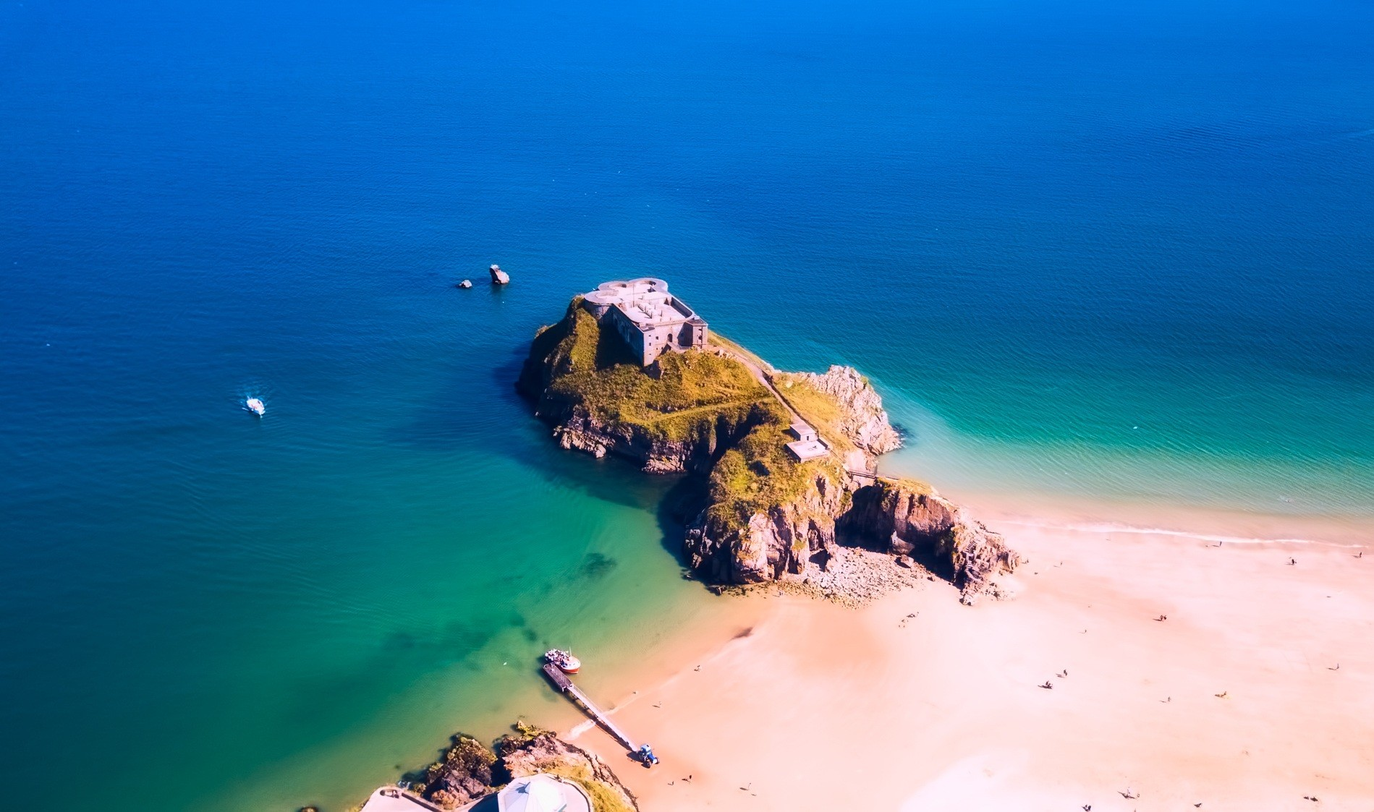
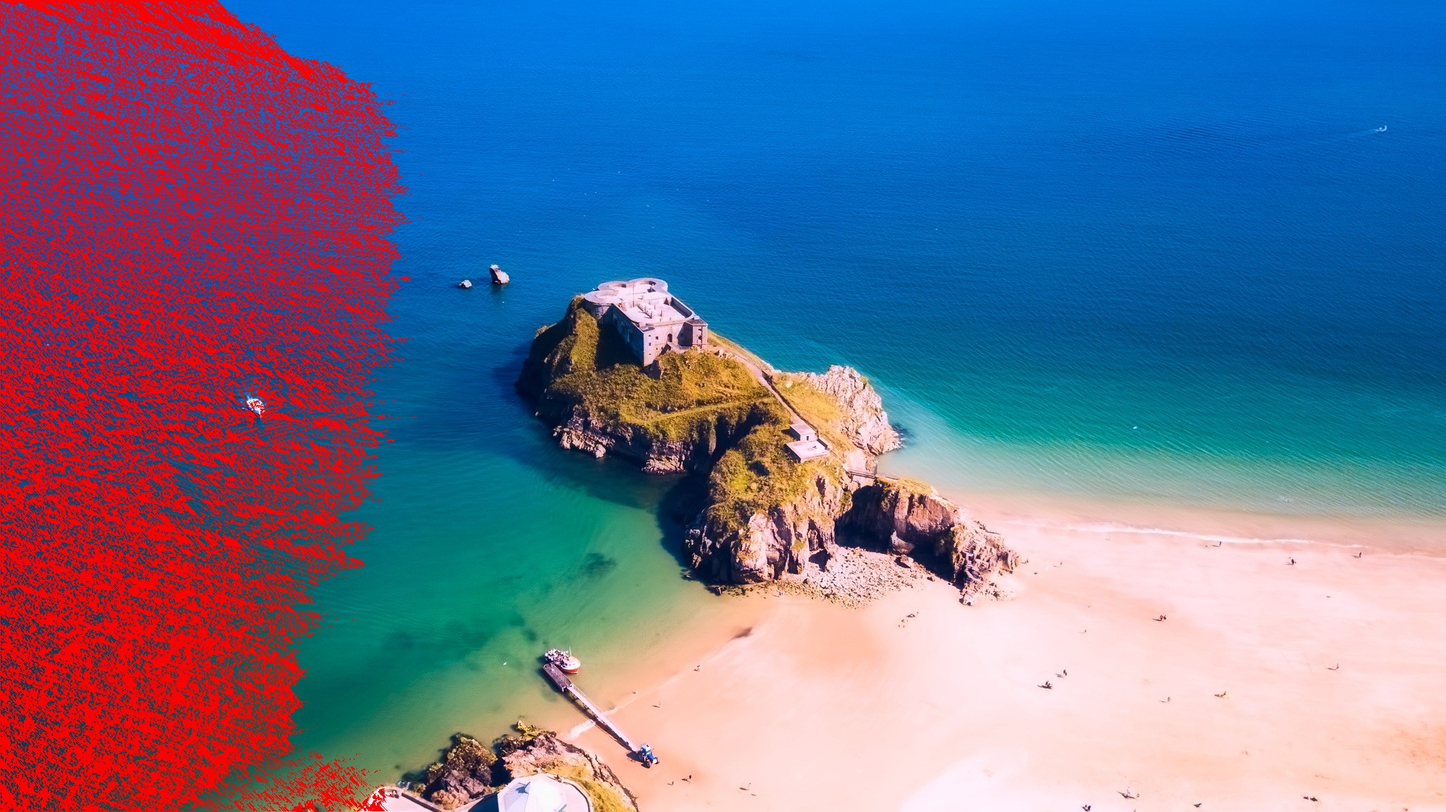
Added colorSeams (Half Works currently fixing)

diff --git a/libs/filter.cpp b/libs/filter.cpp
@@ -1,5 +1,7 @@
 #include <cmath>
 #include <vector>
+#include <set>
+#include <limits>
 #include <iostream>
 
 #include <Filter.h>
@@ -176,57 +178,74 @@ namespace StronkImage
         }
     }
 
-    // Bad initialization
-    // void Filter::removeSeams(ImageData &sourceImage, ImageData &energyMap, int numSeams)
-    // {
-    //     for (int seamCount = 0; seamCount < numSeams; ++seamCount)
-    //     {
-    //         // Find the minimum cost seam in the energy map
-    //         std::vector<int> seam(sourceImage.getHeight());
+    void Filter::colorSeams(ImageData &sourceImage, ImageData &energyMap, int numSeams)
+    {
+        for (int seamCount = 0; seamCount < numSeams; ++seamCount)
+        {
+            std::vector<int> seam(sourceImage.getHeight());
 
-    //         // Initialize the first row of the seam with the first row of the energy map
-    //         for (unsigned int y = 0; y < sourceImage.getHeight(); ++y)
-    //         {
-    //             seam[y] = y * sourceImage.getWidth();
-    //             for (unsigned int x = 1; x < sourceImage.getWidth(); ++x)
-    //             {
-    //                 int currentIdx = y * sourceImage.getWidth() + x;
-    //                 int currentEnergy = energyMap.getPixel(x, y).red;
+            for (unsigned int y = 0; y < sourceImage.getHeight(); ++y)
+            {
+                int minIdx = -1;
+                int minEnergy = std::numeric_limits<int>::max();
 
-    //                 if (y == 0)
-    //                 {
-    //                     seam[y] = currentIdx;
-    //                 }
-    //                 else
-    //                 {
-    //                     int minIdx = seam[y - 1] - sourceImage.getWidth();
+                for (unsigned int x = 0; x < sourceImage.getWidth(); ++x)
+                {
+                    if (y == 0)
+                    {
+                        int currentEnergy = energyMap.getPixel(x, y).red;
+                        if (currentEnergy < minEnergy)
+                        {
+                            minEnergy = currentEnergy;
+                            minIdx = x;
+                        }
+                    }
+                    else
+                    {
+                        int currentIdx = seam[y - 1] + (x - seam[y - 1] % sourceImage.getWidth());
+                        int currentEnergy = energyMap.getPixel(currentIdx % sourceImage.getWidth(), y).red;
 
-    //                     if (x > 0 && seam[y - 1] - sourceImage.getWidth() + 1 < energyMap.getPixel(x - 1, y - 1).red)
-    //                     {
-    //                         minIdx = seam[y - 1] - sourceImage.getWidth() + 1;
-    //                     }
+                        if (x > 0)
+                        {
+                            int leftEnergy = energyMap.getPixel(x - 1, y - 1).red;
+                            if (leftEnergy < currentEnergy)
+                            {
+                                currentEnergy = leftEnergy;
+                                currentIdx = seam[y - 1] - 1;
+                            }
+                        }
 
-    //                     if (x < sourceImage.getWidth() - 1 && seam[y - 1] - sourceImage.getWidth() - 1 < energyMap.getPixel(x + 1, y - 1).red)
-    //                     {
-    //                         minIdx = seam[y - 1] - sourceImage.getWidth() - 1;
-    //                     }
+                        if (x < sourceImage.getWidth() - 1)
+                        {
+                            int rightEnergy = energyMap.getPixel(x + 1, y - 1).red;
+                            if (rightEnergy < currentEnergy)
+                            {
+                                currentEnergy = rightEnergy;
+                                currentIdx = seam[y - 1] + 1;
+                            }
+                        }
 
-    //                     seam[y] = minIdx + sourceImage.getWidth();
-    //                 }
-    //             }
-    //         }
+                        if (currentEnergy < minEnergy)
+                        {
+                            minEnergy = currentEnergy;
+                            minIdx = currentIdx;
+                        }
+                    }
+                }
 
-    //         // Remove the seam from the source image
-    //         for (unsigned int y = 0; y < sourceImage.getHeight(); ++y)
-    //         {
-    //             for (unsigned int x = seam[y] % sourceImage.getWidth(); x < sourceImage.getWidth() - 1; ++x)
-    //             {
-    //                 sourceImage.setPixel(x, y, sourceImage.getPixel(x + 1, y));
-    //             }
-    //         }
+                seam[y] = minIdx;
+            }
 
-    //         // Update the source image width
-    //         sourceImage.resizeBuffer(sourceImage.getWidth() - 1, sourceImage.getHeight());
-    //     }
-    // } // Seems to only remove from the left side..
+            // Color the seams red and update the energy map
+            for (unsigned int y = 0; y < sourceImage.getHeight(); ++y)
+            {
+                unsigned int x = seam[y] % sourceImage.getWidth();
+                RGBPixelBuf redPixel = {255, 0, 0, 0};
+                sourceImage.setPixel(x, y, redPixel);
+                RGBPixelBuf highEnergyPixel = {QuantumRange, QuantumRange, QuantumRange, 0};
+                energyMap.setPixel(x, y, highEnergyPixel);
+            }
+        }
+    }
+
 }

diff --git a/src/main.cpp b/src/main.cpp
@@ -17,7 +17,7 @@ void stripImage(const std::string& inputImagePath, const std::string& outputImag
     ImageData energyMap = Filter::generateEnergyMap(grayscaleImage);
 
     // Remove the specified number of seams from the input image
-    Filter::removeSeams(inputImage.getRawImageData(), energyMap, numSeams);
+    Filter::colorSeams(inputImage.getRawImageData(), energyMap, numSeams);
 
     // Save the modified image to the output path
     inputImage.writeToFile(outputImagePath);

diff --git a/include/Filter.h b/include/Filter.h
@@ -36,6 +36,10 @@ namespace StronkImage
 		// provided as required using a minimum cost matrix generated
 		// with the energy map provided to find the minimum cost seam.
 		static void removeSeams(ImageData &sourceImage, ImageData &energyMap, int numSeams);
+
+		// Just color the seams red in the image
+		// WARNING: Very Very Slow, implemented for demonstration purposes only
+		static void colorSeams(ImageData &sourceImage, ImageData &energyMap, int numSeams);
 	};
 }
 

diff --git a/include/Pixel.h b/include/Pixel.h
@@ -4,6 +4,8 @@
 
 #include <stdint.h>
 
+#define QuantumRange 255
+
 namespace StronkImage
 {
 	// Define Quantum for readability
